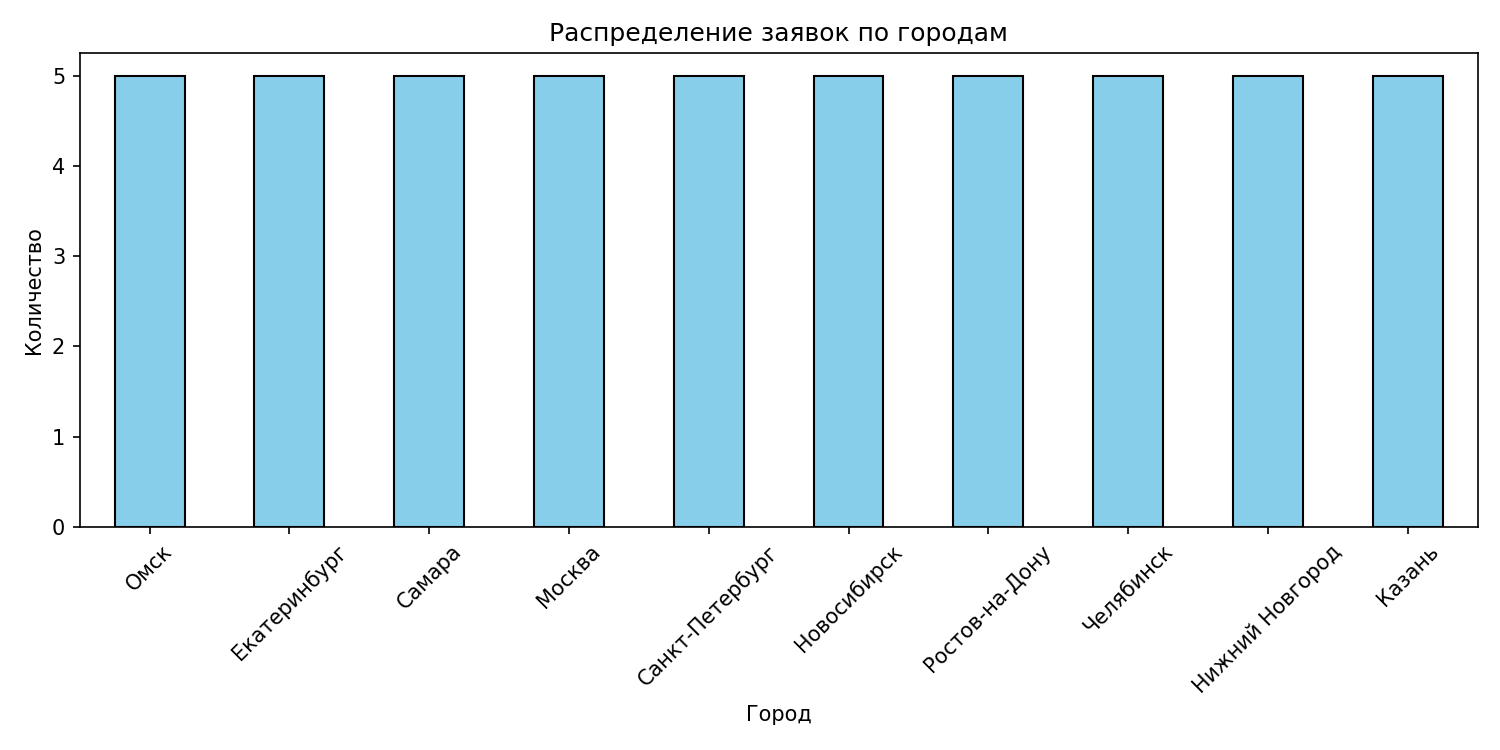
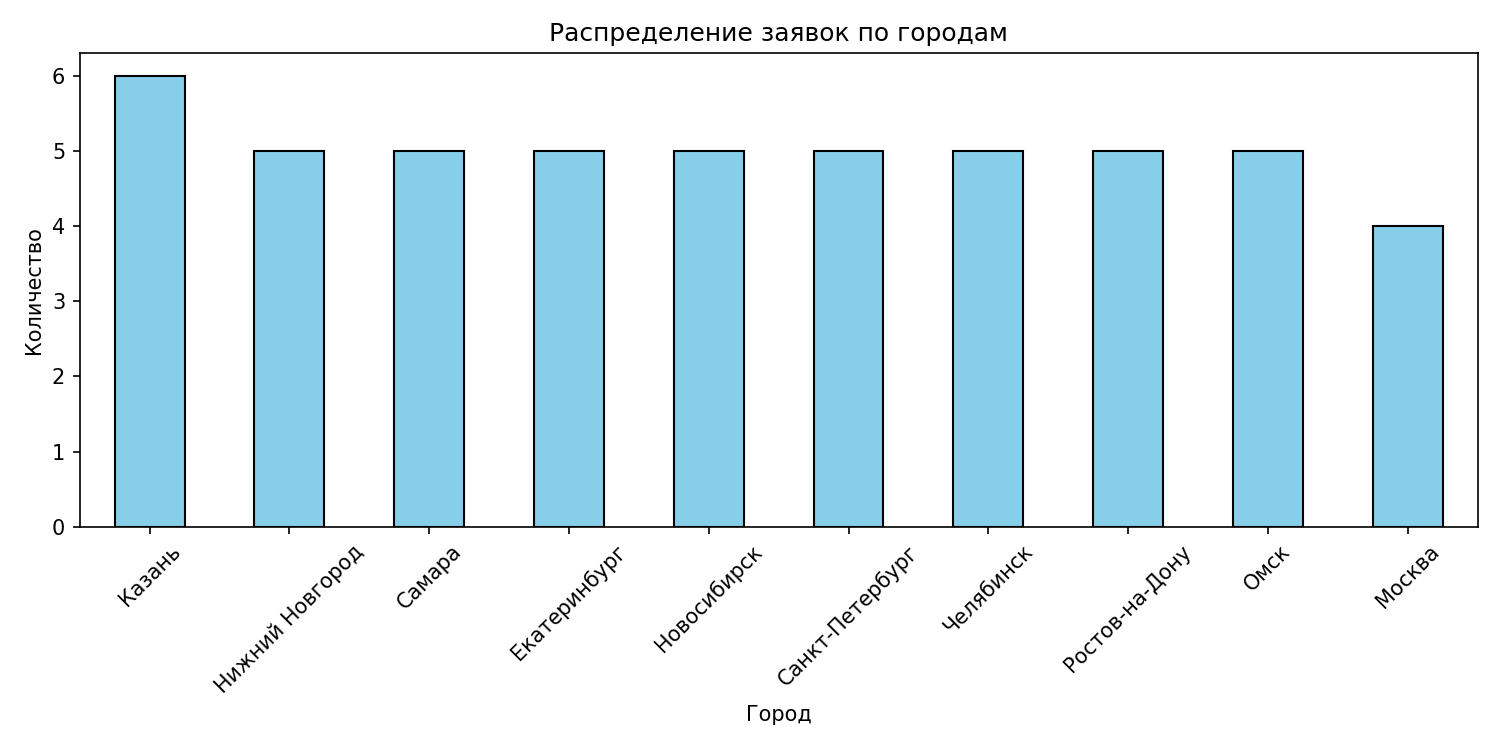
Add files via upload

diff --git a/семинар_2/starter/generator.py b/семинар_2/starter/generator.py
@@ -5,8 +5,27 @@ import matplotlib.pyplot as plt
 from schema import Application, CITIES_LIST, SPECIALITIES_LIST, COURSES_LIST
 from llm_client import make_client
 
-def generate_prompt(seed_city: str) -> str:
+TARGET = 50
+MAX_ATTEMPTS = TARGET * 3
 
+def build_city_queue() -> list[str]:
+    quota = TARGET // len(CITIES_LIST)
+    queue = [city for city in CITIES_LIST for _ in range(quota)]
+    while len(queue) < TARGET:
+        queue.append(random.choice(CITIES_LIST))
+    random.shuffle(queue)
+    return queue
+
+def build_speciality_queue() -> list[str]:
+    quota = TARGET // len(SPECIALITIES_LIST)
+    queue = [spec for spec in SPECIALITIES_LIST for _ in range(quota)]
+    while len(queue) < TARGET:
+        queue.append(random.choice(SPECIALITIES_LIST))
+    random.shuffle(queue)
+    return queue
+
+
+def generate_prompt(seed_city: str, seed_speciality: str) -> str:
     name_styles = [
         "редкое ФИО", "ФИО 90-х годов", "современное ФИО",
         "ФИО из национального региона РФ", "ФИО с иностранными корнями"
@@ -19,12 +38,13 @@ def generate_prompt(seed_city: str) -> str:
 
 Параметры:
 - full_name: реалистичное русское Фамилия Имя Отчество (избегай шаблонных ФИО!)
-Подсказка: {name_hint}
+  Подсказка: {name_hint}
 - age: от 22 до 65
 - address: {{ "city": "{seed_city}", "district": "реалистичный район этого города" }}
-- speciality: ОДНА из [{", ".join(SPECIALITIES_LIST)}] (выбирай случайную профессию)
-- desired_course: ОДНА из [{", ".join(COURSES_LIST)}] (Используй логичные комбинации профессии и курса)
-- years_of_experience: от 0 до 40
+- speciality: ИСПОЛЬЗУЙ ИМЕННО ЭТУ специальность: "{seed_speciality}"
+  (она должна быть одной из [{", ".join(SPECIALITIES_LIST)}])
+- desired_course: ОДНА из [{", ".join(COURSES_LIST)}] (подбери логичный курс для данной специальности)
+- years_of_experience: от 0 до 40 (соответствует возрасту)
 - graduation_year: от 1980 до 2024 (должен логично соответствовать возрасту!)
 
 Никакого текста до/после JSON, никаких markdown-обёрток. Только чистый JSON.
@@ -33,31 +53,52 @@ def generate_prompt(seed_city: str) -> str:
 def main():
     client = make_client()
     applications = []
-    target = 50
 
-    quota_per_city = target // len(CITIES_LIST)
-    city_queue = [city for city in CITIES_LIST for _ in range(quota_per_city)]
-    random.shuffle(city_queue)
+    city_queue = build_city_queue()
+    speciality_queue = build_speciality_queue()
 
-    for seed_city in city_queue:
-        prompt = generate_prompt(seed_city)
+    attempts = 0
+    idx = 0
 
-        app = client.chat.completions.create(
-            model=os.getenv("LLM_MODEL"),
-            messages=[{"role": "user", "content": prompt}],
-            response_model=Application,
-            max_retries=3,
-            temperature=0.8,
-            top_p=0.9
-        )
+    while len(applications) < TARGET:
+        if attempts >= MAX_ATTEMPTS:
+            print(
+                f"Достигнут лимит попыток ({MAX_ATTEMPTS}). "
+                f"Собрано {len(applications)} заявок из {TARGET}."
+            )
+            break
 
-        app_dict = app.model_dump()
-        app_dict['city'] = app_dict['address']['city']
-        app_dict['district'] = app_dict['address']['district']
-        del app_dict['address']
+        seed_city = city_queue[idx % len(city_queue)]
+        seed_speciality = speciality_queue[idx % len(speciality_queue)]
+        idx += 1
+        attempts += 1
 
-        applications.append(app_dict)
-        print(f"Заявка {len(applications)}/{target}: {app.full_name} ({app.address.city})")
+        try:
+            prompt = generate_prompt(seed_city, seed_speciality)
+
+            app: Application = client.chat.completions.create(
+                model=os.getenv("LLM_MODEL"),
+                messages=[{"role": "user", "content": prompt}],
+                response_model=Application,
+                max_retries=3,
+                temperature=0.8,
+                top_p=0.9,
+            )
+
+            app_dict = app.model_dump()
+            app_dict["city"] = app_dict["address"]["city"]
+            app_dict["district"] = app_dict["address"]["district"]
+            del app_dict["address"]
+
+            applications.append(app_dict)
+            print(
+                f"[{len(applications)}/{TARGET}] "
+                f"{app.full_name} | {app.address.city} | {app.speciality}"
+            )
+
+        except Exception as e:
+            print(f"Попытка {attempts} провалилась: {type(e).__name__}: {e}")
+            continue
 
     df = pd.DataFrame(applications)
     df.to_csv("applications.csv", index=False, encoding="utf-8")

diff --git a/семинар_2/starter/schema.py b/семинар_2/starter/schema.py
@@ -6,7 +6,7 @@ Pydantic-схема для персоны.
 """
 
 from typing import Literal
-from pydantic import BaseModel, Field, model_validator
+from pydantic import BaseModel, Field, model_validator, field_validator
 from datetime import datetime
 
 CURRENT_YEAR = datetime.now().year
@@ -45,6 +45,20 @@ class Application(BaseModel):
     desired_course: DESIRED_COURSES
     years_of_experience: int = Field(ge=0, le=40)
     graduation_year: int = Field(ge=1980, le=2024)
+
+    @field_validator("graduation_year")
+    @classmethod
+    def graduation_year_in_valid_range(cls, v: int) -> int:
+        if v > CURRENT_YEAR:
+            raise ValueError(
+                f"graduation_year ({v}) не может быть в будущем. "
+                f"Текущий год: {CURRENT_YEAR}."
+            )
+        if v < 1970:
+            raise ValueError(
+                f"graduation_year ({v}) слишком давно — минимум 1970."
+            )
+        return v
 
     @model_validator(mode="after")
     def check_age_graduation_consistency(self):

diff --git a/семинар_2/starter/выводы.md b/семинар_2/starter/выводы.md
@@ -1,9 +1,9 @@
 # Выводы по дз
 
-Итоговая реализация содержит все данные (50 заявок из 50)
+Итоговая реализация содержит все данные (50 заявок из 50). Дополнительной генерации не потребовалось модель сразу сделала все как надо.
 
 Распределенеи специальностей соответствует условию задания, однако, следует заметитиь, что для многих профессий LLM выбрала курс по работе с нейронными сетями, с другой стороны, если мы потенциально модерлируем реальные заявки, то примерно такое распределение и будет сохраняться, поскольку сегодня это вероятнее всего самый востребованные навык среди специалистов широкого пула профилей.
 
-Реализованный @model_validator не выявил каких-либо расхождений в процессе генерации. Модель соблюдала заданное условие.
+Реализованный @model_validator не выявил каких-либо расхождений в процессе генерации. Модель соблюдала заданное условие. Также реализован модуль @field_validator, который также не выявил каких-либо нарушений со стороны модели.
 
 Отдельная проблема возникла с именами. Модель постоянно концентрировалась на ФИО Иванов Иван Иванович, а когда было введено ограничение "не используй шаблонные имена", стала часто генерировать Кузнецов Алексей Дмитриевич. В итоге для введения разнообразия и схожести с реальным этнически составом страны, а также разнообразием имен и фамилий, пришлось дополнительно реализовать элемент случайной интеграции в промпт подсказок для модели, которые были призваны обеспечить большее разнообразие в ФИО для анкет. Как мне кажется, получилось лучше и более похоже на реальные данные.